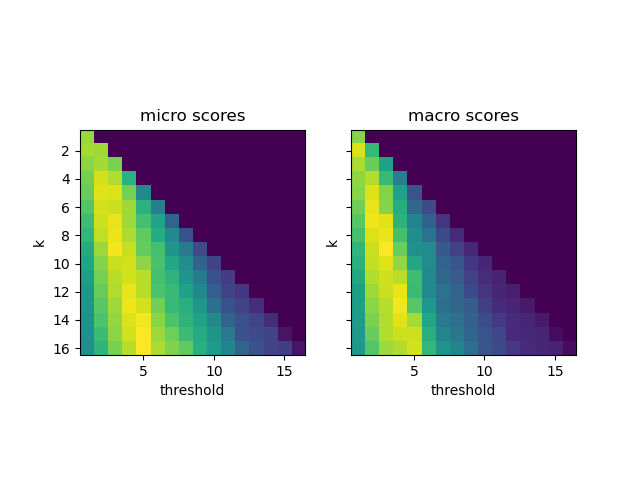
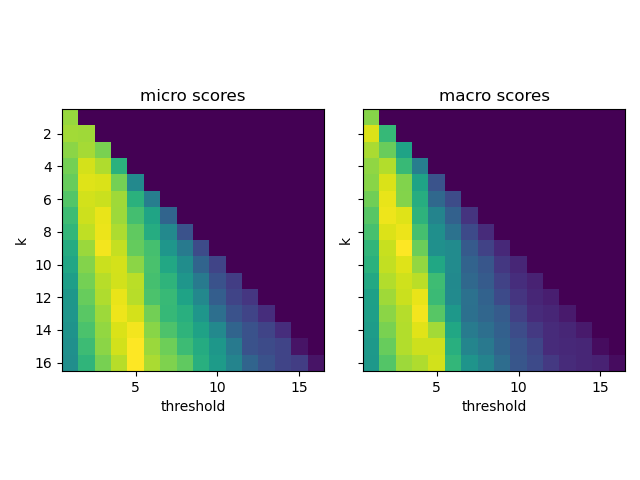
chp09: completed embedding lookup section

Changed region(s): [[0.0625, 0.1875, 1.0, 0.875], [0.3125, 0.5312, 0.4062, 0.6875], [0.0312, 0.5, 0.0625, 0.5312]]

diff --git a/chp09_few_to_no_labels/src/fewlabels/text_embeddings.py b/chp09_few_to_no_labels/src/fewlabels/text_embeddings.py
@@ -10,6 +10,8 @@ from . import eval
 
 class TransformerWithMeanPooling(torch.nn.Module):
     def __init__(self, model: tfm.AutoModel):
+        """turns full text into a single embedding, using mean pooling
+        on the last hidden state layer."""
         super().__init__()
         self.model = model
 
@@ -38,44 +40,52 @@ class TransformerWithMeanPooling(torch.nn.Module):
 
 
 class KNNTagger:
-    def __init__(self, train_ds: datasets.Dataset):
-        self.train_ds = train_ds
-
-    def get_neighbor_tags(self, example, k: int):
-        neighbors = self.train_ds.get_nearest_examples(
-            "embeddings", query=np.array(example["embeddings"]), k=k
-        )
-        return neighbors.examples["label_ids"]
-
-    @staticmethod
-    def select_tags_from_neighbor_tags(
-        neighbor_labels: list[list[int]], threshold: int
-    ) -> list[int]:
-        return list((np.array(neighbor_labels).sum(axis=0) >= threshold) * 1)
-
-    def tag_from_neighbors(self, example: dict[str, list[Any]], k: int, threshold: int):
+    def __init__(
+        self,
+        k: int,
+        threshold: int,
+    ):
+        self.train_ds: datasets.Dataset = None
+        self.k = k
+        self.threshold = threshold
         assert (
             threshold <= k
         ), f"threshold {threshold} should be lower or equal to k ({k})"
 
-        neighbor_labels = self.get_neighbor_tags(example, k)
-        return {
-            "predicted_labels": self.select_tags_from_neighbor_tags(
-                neighbor_labels, threshold
-            )
-        }
-    
-    def score(
-        self, 
-        valid_ds: datasets.Dataset, 
-        k: int, 
-        threshold: int,
-    ) -> dict[str, float]:
-        
-        tagged_ds = valid_ds.map(
-            self.tag_from_neighbors, 
-            fn_kwargs={"k": k, "threshold": threshold},
-            )
+    def fit(self, train_ds: datasets.Dataset) -> None:
+        self.train_ds = train_ds
 
+    def predict(self, ds: datasets.Dataset) -> datasets.Dataset:
+        assert (
+            self.train_ds is not None
+        ), "you need to fit the KNNTagger on a training dataset first."
+        return ds.map(self.predict_single_example)
+
+    def _extract_tags_from_nearest_neighbors(self, example):
+        neighbors = self.train_ds.get_nearest_examples(
+            "embeddings",
+            query=np.array(example["embeddings"], dtype=np.float32),
+            k=int(self.k),
+        )
+        return neighbors.examples["label_ids"]
+
+    def _select_tags_from_neighbor_tags(
+        self, neighbor_labels: list[list[int]]
+    ) -> list[int]:
+        return list((np.array(neighbor_labels).sum(axis=0) >= self.threshold) * 1)
+
+    def predict_single_example(
+        self, example: dict[str, list[Any]]
+    ) -> dict[str, list[int]]:
+        neighbor_labels = self._extract_tags_from_nearest_neighbors(example)
+        return {
+            "predicted_labels": self._select_tags_from_neighbor_tags(neighbor_labels)
+        }
+
+    def score(
+        self,
+        ds: datasets.Dataset,
+    ) -> dict[str, float]:
+
+        tagged_ds = self.predict(ds)
         return eval.get_f1_scores(tagged_ds["predicted_labels"], tagged_ds["label_ids"])
-    

diff --git a/chp09_few_to_no_labels/src/fewlabels/plot.py b/chp09_few_to_no_labels/src/fewlabels/plot.py
@@ -40,6 +40,8 @@ def plot_metrics(evaluator: SlicedTrainingEvaluator, current_model: str) -> None
     plt.tight_layout()
     plt.show()
 
+    return fig
+
 
 def plot_gridsearch(micro_scores: np.ndarray, macro_scores: np.ndarray):
     """used for hyperparameters gridsearch for embedding-based lookup tables.
@@ -51,6 +53,8 @@ def plot_gridsearch(micro_scores: np.ndarray, macro_scores: np.ndarray):
     ax.flatten()
     plot_single_gridsearch(micro_scores, ax[0], "micro scores")
     plot_single_gridsearch(macro_scores, ax[1], "macro scores")
+
+    plt.tight_layout()
 
     return fig
 

diff --git a/chp09_few_to_no_labels/README.md b/chp09_few_to_no_labels/README.md
@@ -32,7 +32,7 @@ After setting up your environment, you can execute the notebook [here](notebooks
 * Fine-Tuning a Vanilla Transformer
 * Domain Adaptation: Fine-Tuning language model on unlabeled data before training model on labeled data.
 
-![](images/)
+![](images/evaluation.png)
 
 
 ## Refactored
